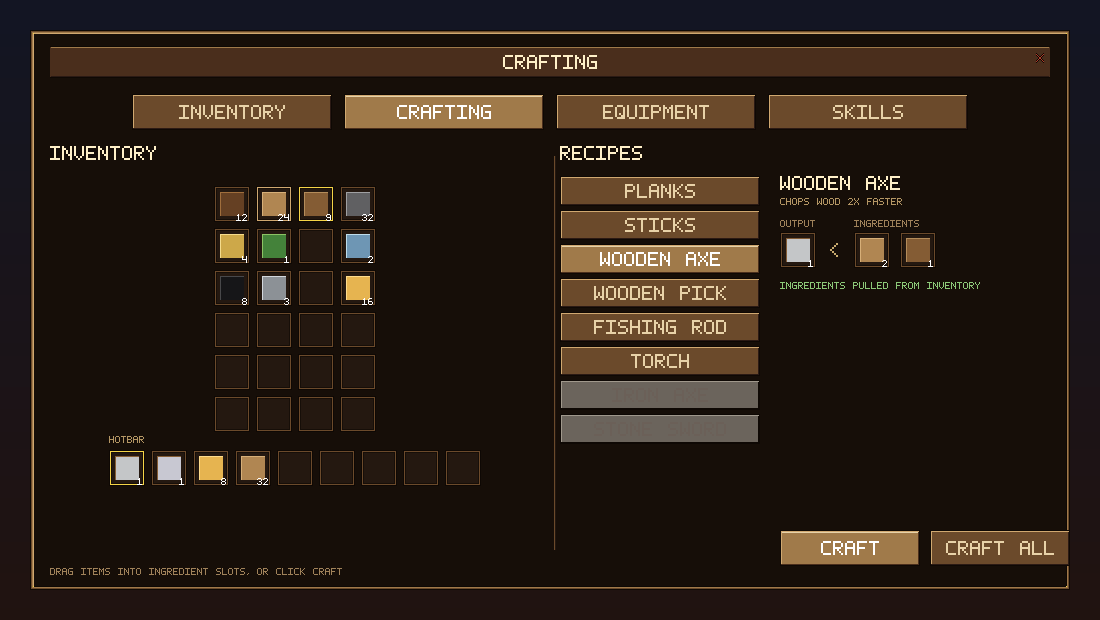
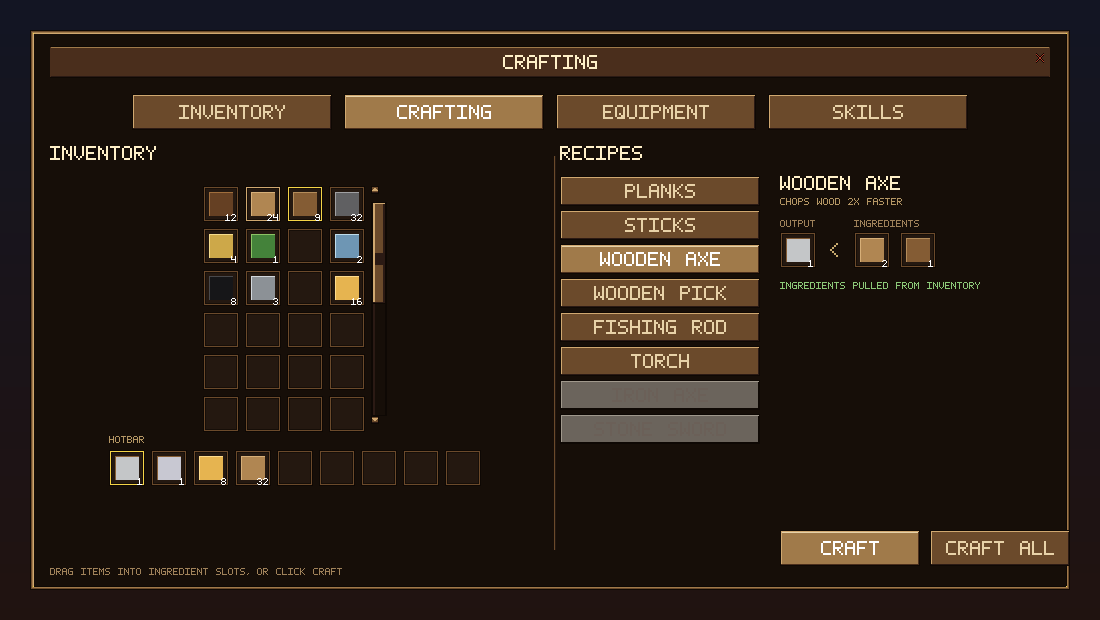
feat(ui): scrollbar sprites + visible scrollbar on split inventory views
Atlas grows to 128x80 with a new bottom strip:
- scrollbar_track   (nine-sliced top/bottom; recessed dark groove)
- scrollbar_thumb   (nine-sliced top/bottom; bronze button feel)
- scroll_arrow_up   (8x8 chevron button, no slice)
- scroll_arrow_down (8x8 chevron button, no slice)

Wired through assets/config/ui.yaml, core/config_ui defaults, and
the ui_sprite_id_t enum so the pixel_ui module can reach the new
sprites by name once a real scroll widget lands.

Mockups: the compact 4x6 grid on crafting / equipment now shows
the scrollbar flush against its right edge. Track + thumb stretch
to match the grid height; thumb size reflects the visible fraction
(24 of 50 main slots = 48 %).

Changed region(s): [[0.1855, 0.3065, 0.3709, 0.6742]]

diff --git a/tenebris-c/tools/gen-ui-mockups.py b/tenebris-c/tools/gen-ui-mockups.py
@@ -51,17 +51,21 @@ ATLAS_H = S.ATLAS_H
 
 SPRITES = {
     # name -> (x, y, w, h, left, right, top, bottom)
-    "panel":           (  0,  0, 32, 32,  8, 8, 8, 8),
-    "button_normal":   ( 32,  0, 24, 16,  4, 4, 4, 4),
-    "button_hover":    ( 56,  0, 24, 16,  4, 4, 4, 4),
-    "button_pressed":  ( 80,  0, 24, 16,  4, 4, 4, 4),
-    "button_disabled": (104,  0, 24, 16,  4, 4, 4, 4),
-    "title_bar":       ( 32, 16, 24, 16,  4, 4, 4, 4),
-    "close_x":         ( 56, 16, 12, 12,  0, 0, 0, 0),
-    "slot_normal":     (  0, 32, 18, 18,  3, 3, 3, 3),
-    "slot_hover":      ( 18, 32, 18, 18,  3, 3, 3, 3),
-    "slot_selected":   ( 36, 32, 18, 18,  3, 3, 3, 3),
-    "slot_disabled":   ( 54, 32, 18, 18,  3, 3, 3, 3),
+    "panel":             (  0,  0, 32, 32,  8, 8, 8, 8),
+    "button_normal":     ( 32,  0, 24, 16,  4, 4, 4, 4),
+    "button_hover":      ( 56,  0, 24, 16,  4, 4, 4, 4),
+    "button_pressed":    ( 80,  0, 24, 16,  4, 4, 4, 4),
+    "button_disabled":   (104,  0, 24, 16,  4, 4, 4, 4),
+    "title_bar":         ( 32, 16, 24, 16,  4, 4, 4, 4),
+    "close_x":           ( 56, 16, 12, 12,  0, 0, 0, 0),
+    "slot_normal":       (  0, 32, 18, 18,  3, 3, 3, 3),
+    "slot_hover":        ( 18, 32, 18, 18,  3, 3, 3, 3),
+    "slot_selected":     ( 36, 32, 18, 18,  3, 3, 3, 3),
+    "slot_disabled":     ( 54, 32, 18, 18,  3, 3, 3, 3),
+    "scrollbar_track":   (  0, 64,  8, 16,  0, 0, 4, 4),
+    "scrollbar_thumb":   (  8, 64,  8, 16,  0, 0, 4, 4),
+    "scroll_arrow_up":   ( 16, 64,  8,  8,  0, 0, 0, 0),
+    "scroll_arrow_down": ( 24, 64,  8,  8,  0, 0, 0, 0),
 }
 
 
@@ -81,6 +85,10 @@ def build_atlas():
     S.blit(atlas,  18, 32, S.make_slot(18, 18, frame_idx=5, accent_idx=6))
     S.blit(atlas,  36, 32, S.make_slot(18, 18, frame_idx=5, accent_idx=9))
     S.blit(atlas,  54, 32, S.make_slot(18, 18, frame_idx=11, inner_dark=11, inner_mid=12))
+    S.blit(atlas,   0, 64, S.make_scrollbar_track(8, 16))
+    S.blit(atlas,   8, 64, S.make_scrollbar_thumb(8, 16))
+    S.blit(atlas,  16, 64, S.make_arrow(8, 8, "up"))
+    S.blit(atlas,  24, 64, S.make_arrow(8, 8, "down"))
     return atlas
 
 
@@ -394,12 +402,54 @@ def draw_tabs(canvas, atlas, active_idx):
         draw_button(canvas, atlas, x, TAB_Y, TAB_W, TAB_H, label, state=state)
 
 
+SCROLLBAR_W = 16
+SCROLLBAR_GAP = 6
+
+
+def draw_scrollbar(canvas, atlas, x, y, w, h,
+                   thumb_frac=1.0, thumb_pos=0.0):
+    """Vertical scrollbar at (x, y, w, h). The scrollbar reserves
+    `w`-tall square buttons at the top and bottom for the up/down
+    chevrons; the track and thumb fill the band between them.
+
+    thumb_frac (0..1) is the fraction of the underlying content that's
+    currently visible - a smaller value means more rows are scrolled
+    out of view and the thumb is shorter. thumb_pos (0..1) is how far
+    down we've scrolled, 0 = at the top, 1 = at the bottom. Both args
+    are pure visualisation - the runtime will compute them from the
+    inventory model."""
+    btn_h = w
+    # Up arrow (top button).
+    draw_nine_slice(canvas, atlas, "scroll_arrow_up", x, y, w, btn_h)
+    # Down arrow (bottom button).
+    draw_nine_slice(canvas, atlas, "scroll_arrow_down",
+                    x, y + h - btn_h, w, btn_h)
+    # Track between the arrow buttons.
+    track_y = y + btn_h
+    track_h = h - 2 * btn_h
+    draw_nine_slice(canvas, atlas, "scrollbar_track", x, track_y, w, track_h)
+    # Thumb. Clamp the height so a tiny inventory still has a grabbable
+    # handle, and clamp the position so the thumb can't drift past the
+    # ends of the track.
+    thumb_frac = max(0.0, min(1.0, thumb_frac))
+    thumb_pos  = max(0.0, min(1.0, thumb_pos))
+    thumb_h    = max(int(track_h * thumb_frac), 20)
+    thumb_h    = min(thumb_h, track_h)
+    max_offset = max(0, track_h - thumb_h)
+    thumb_y    = track_y + int(thumb_pos * max_offset)
+    draw_nine_slice(canvas, atlas, "scrollbar_thumb", x, thumb_y, w, thumb_h)
+
+
 def draw_compact_inventory(canvas, atlas, x, y, w, h, hover_idx=None,
                            selected_idx=None):
     """Inventory + hotbar block sized to fit inside the left half of a
     split screen (crafting / equipment). 4-col x 6-row grid + 9-slot
     hotbar below, both made of the same SLOT_PX-sized slots so the
     user reads them as one continuous bag.
+
+    The compact grid shows only the first 24 of the bag's 50 main slots,
+    so a vertical scrollbar sits flush to the right edge of the grid -
+    same atlas, nine-sliced to whatever height the grid happens to be.
 
     Returns the list of slot rects (x, y, w, h) so the caller can wire
     up tooltip / drag-source affordances later. Caller-side state
@@ -408,7 +458,11 @@ def draw_compact_inventory(canvas, atlas, x, y, w, h, hover_idx=None,
     gap = 6
     cols, rows = 4, 6
     grid_w = cols * SLOT_PX + (cols - 1) * gap
-    grid_x = x + (w - grid_w) // 2
+    grid_h = rows * SLOT_PX + (rows - 1) * gap
+    # Centre the (grid + scrollbar) pair as one block so the scrollbar
+    # always sits flush against the grid, regardless of pane width.
+    total_w = grid_w + SCROLLBAR_GAP + SCROLLBAR_W
+    grid_x = x + (w - total_w) // 2
     grid_y = y + 20
     # Representative item content - same shapes as the full-screen
     # inventory above so the player reads "this is the same bag".
@@ -437,8 +491,17 @@ def draw_compact_inventory(canvas, atlas, x, y, w, h, hover_idx=None,
             draw_slot(canvas, atlas, sx, sy, state=state, item=item, count=count)
             rects.append((sx, sy, SLOT_PX, SLOT_PX))
 
+    # Scrollbar flush to the right edge of the grid. Same height as the
+    # grid itself so the thumb's positions line up with grid rows. With
+    # 24 visible / 50 total main slots, the thumb covers ~48 % of the
+    # track height; in this mockup the user is at the top of the bag.
+    sb_x = grid_x + grid_w + SCROLLBAR_GAP
+    draw_scrollbar(canvas, atlas, sb_x, grid_y, SCROLLBAR_W, grid_h,
+                   thumb_frac=24.0 / 50.0, thumb_pos=0.0)
+
     # Hotbar below, same slot size, gap matches the grid so the eye
-    # reads them as one continuous bag of slots.
+    # reads them as one continuous bag of slots. Centred under the
+    # (grid + scrollbar) block so the alignment reads as deliberate.
     hb_y = grid_y + rows * (SLOT_PX + gap) + 12
     hb_cols = 9
     hb_w = hb_cols * SLOT_PX + (hb_cols - 1) * gap

diff --git a/tenebris-c/tools/gen-ui-sprites.py b/tenebris-c/tools/gen-ui-sprites.py
@@ -8,7 +8,7 @@ sprite rects + nine-slice margins are listed in assets/config/ui.yaml so
 a different theme is just "drop in a different PNG with the same layout"
 (or, if you change the layout, update the YAML to match).
 
-Layout (128 x 64 atlas):
+Layout (128 x 80 atlas):
 
     ( 0,  0)-( 32,  32)  panel               nine-slice (8, 8, 8, 8)
     (32,  0)-( 56,  16)  button_normal       nine-slice (4, 4, 4, 4)
@@ -22,6 +22,11 @@ Layout (128 x 64 atlas):
     (18, 32)-( 36,  50)  slot_hover          nine-slice (3, 3, 3, 3)
     (36, 32)-( 54,  50)  slot_selected       nine-slice (3, 3, 3, 3)
     (54, 32)-( 72,  50)  slot_disabled       nine-slice (3, 3, 3, 3)
+
+    ( 0, 64)-(  8,  80)  scrollbar_track     nine-slice (0, 0, 4, 4)
+    ( 8, 64)-( 16,  80)  scrollbar_thumb     nine-slice (0, 0, 4, 4)
+    (16, 64)-( 24,  72)  scroll_arrow_up     solid sprite (no slice)
+    (24, 64)-( 32,  72)  scroll_arrow_down   solid sprite (no slice)
 
 Palette is a warm "wood + bronze + parchment" RPG-survival theme. Every
 sprite is built from the same ramp so a future re-tint to a different
@@ -39,7 +44,7 @@ import zlib
 # Atlas dimensions and the sprite rects above must match assets/config/ui.yaml.
 
 ATLAS_W = 128
-ATLAS_H = 64
+ATLAS_H = 80
 
 # RGBA palette. Index 0 is transparent so sprites can have non-rectangular
 # silhouettes (close X glyph) without a separate alpha channel logic path.
@@ -212,6 +217,72 @@ def make_title_bar(w, h):
     return c
 
 
+def make_scrollbar_track(w, h):
+    """Vertical scrollbar groove. A dark recessed fill bracketed by the
+    panel outline so the thumb (which uses the button palette) reads
+    as raised over it. nine-slice top=4 / bottom=4 preserves the
+    rounded caps; the middle stretches to any track height."""
+    c = make_canvas(w, h)
+    fill_rect(c, 0, 0, w, h, 1)                  # outer frame
+    fill_rect(c, 1, 1, w - 2, h - 2, 7)          # dark groove fill
+    # Subtle inner shadow on the left column so the groove reads as
+    # recessed under top-left lighting. Survives the nine-slice
+    # stretch because it spans every row.
+    for j in range(1, h - 1):
+        put_pixel(c, 1, j, 2)
+    return c
+
+
+def make_scrollbar_thumb(w, h):
+    """Vertical scrollbar thumb. Same warm bronze palette as a button
+    so it reads as a grabbable handle over the dark track. Top + bottom
+    bevels are preserved by the nine-slice; the middle band stretches
+    to any thumb height."""
+    c = make_canvas(w, h)
+    fill_rect(c, 0, 0, w, h, 1)                  # frame
+    fill_rect(c, 1, 1, w - 2, h - 2, 4)          # body
+    # Top bevel highlight + bottom bevel shadow.
+    for i in range(1, w - 1):
+        put_pixel(c, i, 1, 6)
+        put_pixel(c, i, h - 2, 2)
+    # Side bevels - bronze hi on the left, dark wood on the right.
+    for j in range(2, h - 2):
+        put_pixel(c, 1, j, 6)
+        put_pixel(c, w - 2, j, 2)
+    # Single horizontal grip line in the centre of the stretchable
+    # middle band. Stretches with the thumb but stays roughly central,
+    # so the affordance reads at any thumb height.
+    if h >= 8:
+        mid = h // 2
+        for i in range(2, w - 2):
+            put_pixel(c, i, mid, 2)
+    return c
+
+
+def make_arrow(w, h, direction):
+    """Small chevron-button glyph - 8x8 native. direction is 'up' or
+    'down'. Drawn as a bronze pyramid on a light-wood button body so
+    it reads at 1x at any UI scale. Non-stretchable (nine-slice all
+    zeros) so the renderer blits 1:1."""
+    c = make_canvas(w, h)
+    fill_rect(c, 0, 0, w, h, 1)                  # frame
+    fill_rect(c, 1, 1, w - 2, h - 2, 4)          # body
+    # Bottom bevel shadow so the button has dimensionality.
+    for i in range(1, w - 1):
+        put_pixel(c, i, h - 2, 2)
+
+    # Pyramid 3 rows tall, widening from 2 px to 6 px. Centred on cx.
+    cx = w // 2
+    rows = [(0, 1), (1, 2), (2, 3)]  # (offset, half-width)
+    if direction == "down":
+        rows = [(0, 3), (1, 2), (2, 1)]
+    base_y = 2
+    for offset, half in rows:
+        for dx in range(-half, half):
+            put_pixel(c, cx + dx, base_y + offset, 6)
+    return c
+
+
 def make_close_x(w, h):
     """Stylised X glyph as a standalone sprite. Drawn diagonally on a
     transparent background; the caller paints the underlying button
@@ -295,6 +366,15 @@ def main():
     blit(atlas,  36, 32, make_slot(18, 18, frame_idx=5, accent_idx=9))   # selected (gold)
     blit(atlas,  54, 32, make_slot(18, 18, frame_idx=11,                 # disabled
                                    inner_dark=11, inner_mid=12))
+
+    # Row 3: scrollbar pieces. Track + thumb live as 8x16 sprites with
+    # top/bottom nine-slice margins so the renderer can stretch them to
+    # any inventory pane height; the two arrow buttons are non-
+    # stretchable 8x8 chevrons.
+    blit(atlas,   0, 64, make_scrollbar_track(8, 16))
+    blit(atlas,   8, 64, make_scrollbar_thumb(8, 16))
+    blit(atlas,  16, 64, make_arrow(8, 8, "up"))
+    blit(atlas,  24, 64, make_arrow(8, 8, "down"))
 
     here = os.path.dirname(os.path.abspath(__file__))
     out = os.path.normpath(os.path.join(here, "..", "assets", "textures",

diff --git a/tenebris-c/src/core/config.c b/tenebris-c/src/core/config.c
@@ -942,6 +942,10 @@ static ui_config_t S_UI = {
         [UI_SPRITE_SLOT_HOVER]      = {  18, 32, 18, 18,  3, 3, 3, 3 },
         [UI_SPRITE_SLOT_SELECTED]   = {  36, 32, 18, 18,  3, 3, 3, 3 },
         [UI_SPRITE_SLOT_DISABLED]   = {  54, 32, 18, 18,  3, 3, 3, 3 },
+        [UI_SPRITE_SCROLLBAR_TRACK]   = {   0, 64,  8, 16,  0, 0, 4, 4 },
+        [UI_SPRITE_SCROLLBAR_THUMB]   = {   8, 64,  8, 16,  0, 0, 4, 4 },
+        [UI_SPRITE_SCROLL_ARROW_UP]   = {  16, 64,  8,  8,  0, 0, 0, 0 },
+        [UI_SPRITE_SCROLL_ARROW_DOWN] = {  24, 64,  8,  8,  0, 0, 0, 0 },
     },
 };
 
@@ -962,6 +966,10 @@ static int ui_sprite_section_index(const char* key) {
     if (strcmp(key, "slot_hover"     ) == 0) return UI_SPRITE_SLOT_HOVER;
     if (strcmp(key, "slot_selected"  ) == 0) return UI_SPRITE_SLOT_SELECTED;
     if (strcmp(key, "slot_disabled"  ) == 0) return UI_SPRITE_SLOT_DISABLED;
+    if (strcmp(key, "scrollbar_track"  ) == 0) return UI_SPRITE_SCROLLBAR_TRACK;
+    if (strcmp(key, "scrollbar_thumb"  ) == 0) return UI_SPRITE_SCROLLBAR_THUMB;
+    if (strcmp(key, "scroll_arrow_up"  ) == 0) return UI_SPRITE_SCROLL_ARROW_UP;
+    if (strcmp(key, "scroll_arrow_down") == 0) return UI_SPRITE_SCROLL_ARROW_DOWN;
     return -1;
 }
 

diff --git a/tenebris-c/src/core/config.h b/tenebris-c/src/core/config.h
@@ -572,6 +572,10 @@ typedef enum {
     UI_SPRITE_SLOT_HOVER,
     UI_SPRITE_SLOT_SELECTED,
     UI_SPRITE_SLOT_DISABLED,
+    UI_SPRITE_SCROLLBAR_TRACK,
+    UI_SPRITE_SCROLLBAR_THUMB,
+    UI_SPRITE_SCROLL_ARROW_UP,
+    UI_SPRITE_SCROLL_ARROW_DOWN,
     UI_SPRITE_COUNT
 } ui_sprite_id_t;
 

diff --git a/tenebris-c/crafting.md b/tenebris-c/crafting.md
@@ -54,6 +54,15 @@ SWORD") use the greyed-out button sprite and stay un-clickable until
 you have the higher-tier station. Each entry in `recipes.yaml`
 becomes one row in this list.
 
+The compact grid shows only the first 24 of the bag's 50 main slots,
+so a vertical scrollbar sits flush against its right edge. Track +
+thumb are nine-sliced so they fit any pane height; the up / down
+chevron buttons sit at native size on top and bottom. The thumb
+height is the visible fraction of the bag (24 / 50 = 48 % in the
+mockup) and its position is the scroll offset (top in the mockup).
+Mouse wheel scrolls anywhere over the inventory pane; click + drag
+the thumb works too.
+
 ### Equipment
 
 ![Equipment mockup](docs/mockups/equipment.png)
